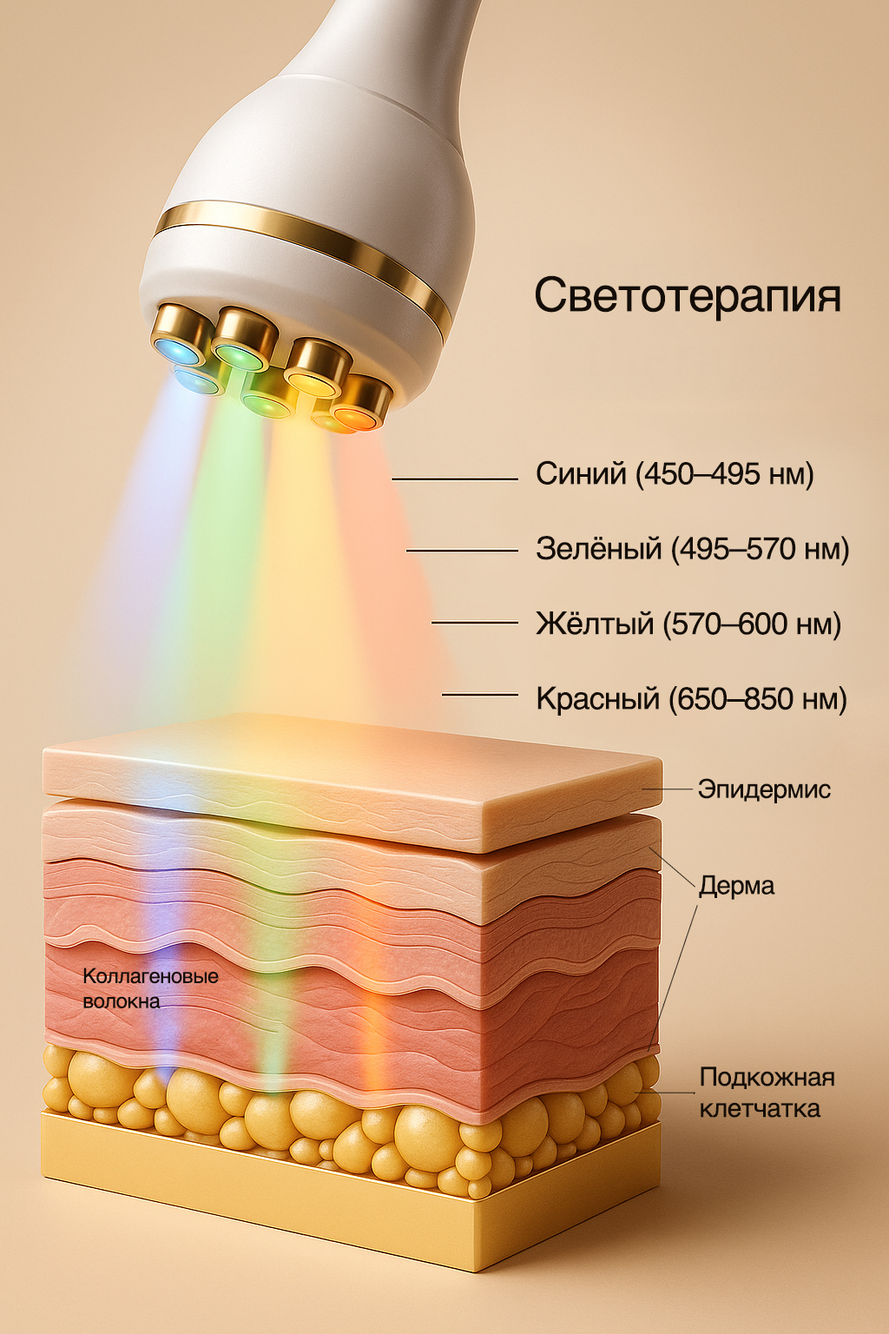
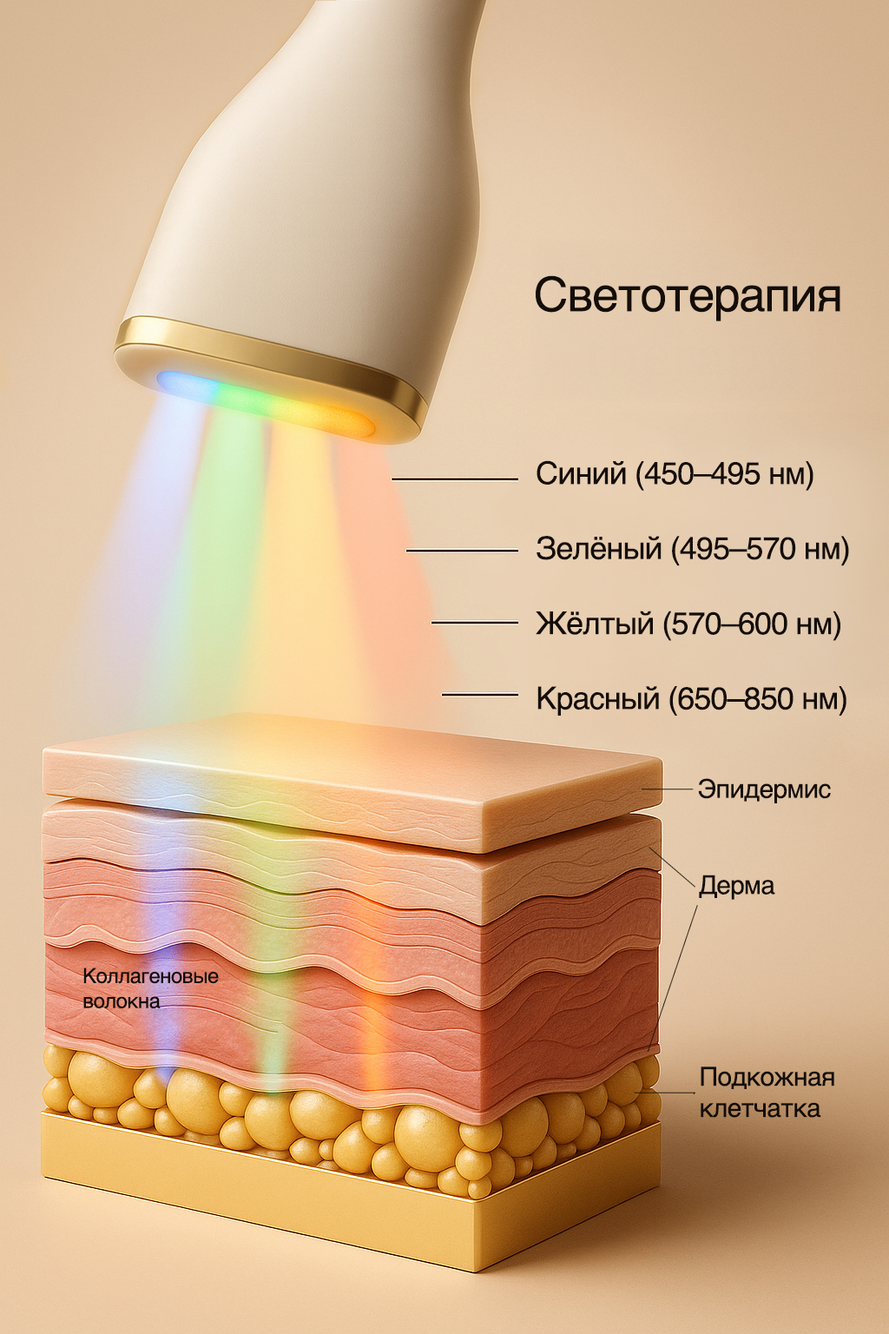
Add Ukrainian translations and update booking links
- Complete Ukrainian language support for /laser page
- Update all 'Termin buchen' buttons to use dikidi.ru booking system
- Add interactive procedure schemas to /laser page (193.png, 193 1.png)
- Update Microneedling schemas (194.jpg, 194 1.png)
- Translate Instagram section to Ukrainian
- Update procedure images (182.jpg, 187.jpg, 187 1.jpg)

🤖 Generated with [Claude Code](https://claude.com/claude-code)

Changed region(s): [[0.125, 0.0, 0.5625, 0.3438]]

diff --git a/src/page-components/Laser.tsx b/src/page-components/Laser.tsx
@@ -7,6 +7,7 @@ import { motion } from 'framer-motion';
 import { Button } from '@/components/ui/button';
 import Image from 'next/image';
 import { useState } from 'react';
+import { ProcedureSchema } from '@/components/ProcedureSchema';
 
 const Laser = () => {
   const { t, language } = useLanguage();
@@ -118,7 +119,7 @@ const Laser = () => {
       title: 'Alle Körperzonen',
       description: 'Von Oberlippe bis kompletter Körper – für Damen und Herren'
     }
-  ] : [
+  ] : language === 'ru' ? [
     {
       icon: Zap,
       title: '3 длины волны в одном аппарате',
@@ -139,6 +140,27 @@ const Laser = () => {
       title: 'Все зоны тела',
       description: 'От верхней губы до всего тела — для женщин и мужчин'
     }
+  ] : [
+    {
+      icon: Zap,
+      title: '3 довжини хвилі в одному апараті',
+      description: 'Оптимальна процедура для будь-якого типу шкіри та волосся без зміни обладнання'
+    },
+    {
+      icon: Shield,
+      title: 'Вбудована система охолодження',
+      description: 'Безболісна процедура завдяки контактному охолодженню до -4°C'
+    },
+    {
+      icon: Clock,
+      title: 'Швидкі результати',
+      description: '80-90% стійке видалення волосся після 6-8 сеансів'
+    },
+    {
+      icon: Sparkles,
+      title: 'Всі зони тіла',
+      description: 'Від верхньої губи до всього тіла — для жінок і чоловіків'
+    }
   ];
 
   const treatmentAreas = language === 'de' ? [
@@ -148,13 +170,20 @@ const Laser = () => {
     { zone: 'Intimbereich', areas: 'Bikini klassisch, Bikini tief, Bikini komplett' },
     { zone: 'Beine', areas: 'Komplett, Oberschenkel, Unterschenkel, Knie' },
     { zone: 'Sonstiges', areas: 'Nacken, Gesäß, Pofalte' },
-  ] : [
+  ] : language === 'ru' ? [
     { zone: 'Лицо', areas: 'Верхняя губа, подбородок, щёки, бакенбарды' },
     { zone: 'Верхняя часть тела', areas: 'Подмышки, грудь, живот, спина, плечи' },
     { zone: 'Руки', areas: 'Полностью, плечи, предплечья, пальцы' },
     { zone: 'Интимная зона', areas: 'Бикини классическое, глубокое, тотальное' },
     { zone: 'Ноги', areas: 'Полностью, бёдра, голени, колени' },
     { zone: 'Другое', areas: 'Шея, ягодицы, межъягодичная зона' },
+  ] : [
+    { zone: 'Обличчя', areas: 'Верхня губа, підборіддя, щоки, бакенбарди' },
+    { zone: 'Верхня частина тіла', areas: 'Пахви, груди, живіт, спина, плечі' },
+    { zone: 'Руки', areas: 'Повністю, плечі, передпліччя, пальці' },
+    { zone: 'Інтимна зона', areas: 'Бікіні класичне, глибоке, тотальне' },
+    { zone: 'Ноги', areas: 'Повністю, стегна, гомілки, коліна' },
+    { zone: 'Інше', areas: 'Шия, сідниці, міжсідничя' },
   ];
 
   const processSteps = language === 'de' ? [
@@ -178,7 +207,7 @@ const Laser = () => {
       title: 'Nachsorge',
       description: 'Beruhigende Pflege, Sonnenschutz, nächster Termin in 4-6 Wochen'
     }
-  ] : [
+  ] : language === 'ru' ? [
     {
       step: 1,
       title: 'Бесплатная консультация',
@@ -198,6 +227,27 @@ const Laser = () => {
       step: 4,
       title: 'Уход после',
       description: 'Успокаивающий уход, защита от солнца, следующий визит через 4-6 недель'
+    }
+  ] : [
+    {
+      step: 1,
+      title: 'Безкоштовна консультація',
+      description: 'Аналіз фототипу, перевірка протипоказань, індивідуальний план'
+    },
+    {
+      step: 2,
+      title: 'Підготовка',
+      description: 'Гоління зони за 24год, без засмаги 2 тижні до процедури'
+    },
+    {
+      step: 3,
+      title: 'Процедура',
+      description: 'Підбір оптимальної довжини хвилі, охолодження, точні імпульси лазера'
+    },
+    {
+      step: 4,
+      title: 'Догляд після',
+      description: 'Заспокійливий догляд, захист від сонця, наступний візит через 4-6 тижнів'
     }
   ];
 
@@ -222,7 +272,7 @@ const Laser = () => {
       q: 'Für wen ist Laser-Haarentfernung nicht geeignet?',
       a: 'Kontraindikationen sind: Schwangerschaft, aktive Hautinfektionen, Einnahme photosensibilisierender Medikamente, frische Bräune (2 Wochen), Epilepsie, Herzschrittmacher, Krebs. Bei chronischen Erkrankungen beraten wir Sie individuell.'
     }
-  ] : [
+  ] : language === 'ru' ? [
     {
       q: 'Почему трёхволновой лазер лучше обычного?',
       a: 'Трёхволновой лазер объединяет преимущества всех технологий: Александрит для светлой кожи и тонких волос, Диод для универсального применения, Nd:YAG для тёмной кожи. Мастер подбирает оптимальную длину волны для вашего фототипа или комбинирует их — для максимальной эффективности и безопасности.'
@@ -242,6 +292,27 @@ const Laser = () => {
     {
       q: 'Кому не подходит лазерная эпиляция?',
       a: 'Противопоказания: беременность, активные инфекции кожи, приём фотосенсибилизирующих препаратов, свежий загар (2 недели), эпилепсия, кардиостимулятор, онкология. При хронических заболеваниях проконсультируем индивидуально.'
+    }
+  ] : [
+    {
+      q: 'Чому трихвильовий лазер кращий за звичайний?',
+      a: 'Трихвильовий лазер об\'єднує переваги всіх технологій: Олександрит для світлої шкіри та тонкого волосся, Діод для універсального застосування, Nd:YAG для темної шкіри. Майстер підбирає оптимальну довжину хвилі для вашого фототипу або комбінує їх — для максимальної ефективності та безпеки.'
+    },
+    {
+      q: 'Це боляче?',
+      a: 'Завдяки вбудованій системі охолодження (до -4°C) процедура практично безболісна. Більшість клієнтів описують легке поколювання або відчуття тепла. Чутливі зони на кшталт бікіні можуть відчуватися інтенсивніше, але цілком терпимо.'
+    },
+    {
+      q: 'Скільки сеансів потрібно?',
+      a: 'Для 80-90% стійкого видалення волосся потрібно 6-8 сеансів з інтервалом 4-6 тижнів. Точна кількість залежить від типу волосся, зони та гормонального фону. При гормональних порушеннях може знадобитися більше сеансів.'
+    },
+    {
+      q: 'Чи можна робити влітку?',
+      a: 'Так! Nd:YAG лазер безпечний навіть при легкій засмазі. Однак слід уникати прямих сонячних променів 2 тижні до та після процедури. Ми індивідуально підберемо оптимальну довжину хвилі для вашого поточного відтінку шкіри.'
+    },
+    {
+      q: 'Кому не підходить лазерна епіляція?',
+      a: 'Протипоказання: вагітність, активні інфекції шкіри, прийом фотосенсибілізуючих препаратів, свіжа засмага (2 тижні), епілепсія, кардіостимулятор, онкологія. При хронічних захворюваннях проконсультуємо індивідуально.'
     }
   ];
 
@@ -306,7 +377,7 @@ const Laser = () => {
                   size="lg"
                   className="bg-brand-gold hover:bg-brand-gold/90 text-white font-medium rounded-2xl px-10 py-7 text-lg"
                 >
-                  {language === 'de' ? 'Preise ansehen' : language === 'ru' ? 'Смотреть цены' : 'Смотреть цены'}
+                  {language === 'de' ? 'Preise ansehen' : language === 'ru' ? 'Смотреть цены' : 'Дивитись ціни'}
                 </Button>
               </Link>
               <Button
@@ -316,7 +387,7 @@ const Laser = () => {
                 asChild
               >
                 <a href="https://wa.me/4917677267269" target="_blank" rel="noopener noreferrer">
-                  {language === 'de' ? 'Beratung buchen' : language === 'ru' ? 'Записаться на консультацию' : 'Записаться на консультацию'}
+                  {language === 'de' ? 'Beratung buchen' : language === 'ru' ? 'Записаться на консультацию' : 'Записатися на консультацію'}
                 </a>
               </Button>
             </div>
@@ -335,12 +406,14 @@ const Laser = () => {
             className="text-center mb-12 md:mb-16"
           >
             <h2 className="text-lg sm:text-xl md:text-2xl lg:text-3xl font-heading font-bold text-brand-espresso mb-4 max-w-full px-2 break-words" style={{ hyphens: 'none', wordBreak: 'break-word', overflowWrap: 'anywhere', whiteSpace: 'normal', letterSpacing: '-0.01em', wordWrap: 'break-word' }}>
-              {language === 'de' ? 'Warum Dreiwellenlaser?' : language === 'ru' ? 'Почему трёхволновой лазер?' : 'Почему трёхволновой лазер?'}
+              {language === 'de' ? 'Warum Dreiwellenlaser?' : language === 'ru' ? 'Почему трёхволновой лазер?' : 'Чому трихвильовий лазер?'}
             </h2>
             <p className="text-brand-coffee/70 max-w-3xl mx-auto text-lg">
-              {isGerman
+              {language === 'de'
                 ? 'Ein Gerät – drei Wellenlängen – optimale Ergebnisse für jeden Hauttyp'
-                : 'Один аппарат — три длины волны — оптимальные результаты для любого типа кожи'}
+                : language === 'ru'
+                ? 'Один аппарат — три длины волны — оптимальные результаты для любого типа кожи'
+                : 'Один апарат — три довжини хвилі — оптимальні результати для будь-якого типу шкіри'}
             </p>
           </motion.div>
 
@@ -383,12 +456,14 @@ const Laser = () => {
             className="text-center mb-12 md:mb-16"
           >
             <h2 className="text-lg sm:text-xl md:text-2xl lg:text-3xl font-heading font-bold text-brand-espresso mb-4 max-w-full px-2 break-words" style={{ hyphens: 'none', wordBreak: 'break-word', overflowWrap: 'anywhere', whiteSpace: 'normal', letterSpacing: '-0.01em', wordWrap: 'break-word' }}>
-              {language === 'de' ? 'Drei Wellenlängen – Drei Stärken' : language === 'ru' ? 'Три длины волны — три преимущества' : 'Три длины волны — три преимущества'}
+              {language === 'de' ? 'Drei Wellenlängen – Drei Stärken' : language === 'ru' ? 'Три длины волны — три преимущества' : 'Три довжини хвилі — три переваги'}
             </h2>
             <p className="text-brand-coffee/70 max-w-3xl mx-auto text-lg">
-              {isGerman
+              {language === 'de'
                 ? 'Jede Wellenlänge hat ihre Stärke. Wir wählen die optimale für Ihren Hauttyp.'
-                : 'Каждая длина волны имеет своё преимущество. Мы подберём оптимальную для вашего фототипа.'}
+                : language === 'ru'
+                ? 'Каждая длина волны имеет своё преимущество. Мы подберём оптимальную для вашего фототипа.'
+                : 'Кожна довжина хвилі має свою перевагу. Ми підберемо оптимальну для вашого фототипу.'}
             </p>
           </motion.div>
 
@@ -450,7 +525,7 @@ const Laser = () => {
             className="text-center mb-12 md:mb-16"
           >
             <h2 className="text-lg sm:text-xl md:text-2xl lg:text-3xl font-heading font-bold text-brand-espresso mb-4 max-w-full px-2 break-words" style={{ hyphens: 'none', wordBreak: 'break-word', overflowWrap: 'anywhere', whiteSpace: 'normal', letterSpacing: '-0.01em', wordWrap: 'break-word' }}>
-              {language === 'de' ? 'Wie läuft die Behandlung ab?' : language === 'ru' ? 'Как проходит процедура?' : 'Как проходит процедура?'}
+              {language === 'de' ? 'Wie läuft die Behandlung ab?' : language === 'ru' ? 'Как проходит процедура?' : 'Як проходить процедура?'}
             </h2>
           </motion.div>
 
@@ -479,6 +554,31 @@ const Laser = () => {
         </div>
       </section>
 
+      {/* Procedure Schema */}
+      <section className="py-16 md:py-20 lg:py-24">
+        <div className="container mx-auto px-4 max-w-5xl">
+          <motion.div
+            initial={{ opacity: 0, y: 20 }}
+            whileInView={{ opacity: 1, y: 0 }}
+            viewport={{ once: true }}
+            transition={{ duration: 0.6 }}
+            className="text-center mb-8"
+          >
+            <h2 className="text-lg sm:text-xl md:text-2xl lg:text-3xl font-heading font-bold text-brand-espresso mb-4 max-w-full px-2 break-words" style={{ hyphens: 'none', wordBreak: 'break-word', overflowWrap: 'anywhere', whiteSpace: 'normal', letterSpacing: '-0.01em', wordWrap: 'break-word' }}>
+              {language === 'de' ? 'Behandlungsablauf' : language === 'ru' ? 'Схема процедуры' : 'Схема процедури'}
+            </h2>
+          </motion.div>
+          <ProcedureSchema
+            germanImages={['/193 1.png']}
+            russianImages={['/193.png']}
+            ukrainianImages={['/193.png']}
+            altTextGerman="Laser-Haarentfernung Behandlungsablauf"
+            altTextRussian="Схема лазерной эпиляции"
+            altTextUkrainian="Схема лазерної епіляції"
+          />
+        </div>
+      </section>
+
       {/* Treatment Areas */}
       <section className="py-16 md:py-20 lg:py-24 bg-white/50">
         <div className="container mx-auto px-4 max-w-5xl">
@@ -490,12 +590,14 @@ const Laser = () => {
             className="text-center mb-12"
           >
             <h2 className="text-lg sm:text-xl md:text-2xl lg:text-3xl font-heading font-bold text-brand-espresso mb-4 max-w-full px-2 break-words" style={{ hyphens: 'none', wordBreak: 'break-word', overflowWrap: 'anywhere', whiteSpace: 'normal', letterSpacing: '-0.01em', wordWrap: 'break-word' }}>
-              {language === 'de' ? 'Behandlungszonen' : language === 'ru' ? 'Зоны обработки' : 'Зоны обработки'}
+              {language === 'de' ? 'Behandlungszonen' : language === 'ru' ? 'Зоны обработки' : 'Зони обробки'}
             </h2>
             <p className="text-brand-coffee/70 max-w-2xl mx-auto">
-              {isGerman
+              {language === 'de'
                 ? 'Laser-Haarentfernung für Damen und Herren – alle Körperzonen'
-                : 'Лазерная эпиляция для женщин и мужчин — все зоны тела'}
+                : language === 'ru'
+                ? 'Лазерная эпиляция для женщин и мужчин — все зоны тела'
+                : 'Лазерна епіляція для жінок і чоловіків — всі зони тіла'}
             </p>
           </motion.div>
 
@@ -522,7 +624,7 @@ const Laser = () => {
                 <Button
                   className="bg-brand-gold hover:bg-brand-gold/90 text-white font-medium rounded-xl"
                 >
-                  {language === 'de' ? 'Alle Preise ansehen' : language === 'ru' ? 'Смотреть все цены' : 'Смотреть все цены'}
+                  {language === 'de' ? 'Alle Preise ansehen' : language === 'ru' ? 'Смотреть все цены' : 'Дивитись всі ціни'}
                 </Button>
               </Link>
             </div>
@@ -541,7 +643,7 @@ const Laser = () => {
             className="text-center mb-12"
           >
             <h2 className="text-lg sm:text-xl md:text-2xl lg:text-3xl font-heading font-bold text-brand-espresso mb-4 max-w-full px-2 break-words" style={{ hyphens: 'none', wordBreak: 'break-word', overflowWrap: 'anywhere', whiteSpace: 'normal', letterSpacing: '-0.01em', wordWrap: 'break-word' }}>
-              {language === 'de' ? 'Häufige Fragen' : language === 'ru' ? 'Частые вопросы' : 'Частые вопросы'}
+              {language === 'de' ? 'Häufige Fragen' : language === 'ru' ? 'Частые вопросы' : 'Часті питання'}
             </h2>
           </motion.div>
 
@@ -585,7 +687,7 @@ const Laser = () => {
               className="h-[2px] bg-gradient-to-r from-transparent via-brand-gold to-transparent mx-auto mb-6"
             />
             <h2 className="text-sm sm:text-base md:text-xl lg:text-2xl font-heading font-bold text-brand-espresso mb-2 max-w-full" style={{ hyphens: 'none', wordBreak: 'normal', overflowWrap: 'normal' }}>
-              {language === 'de' ? 'Unsere Arbeiten' : language === 'ru' ? 'Наши работы' : 'Наши работы'}
+              {language === 'de' ? 'Unsere Arbeiten' : language === 'ru' ? 'Наши работы' : 'Наші роботи'}
             </h2>
             <p className="text-brand-coffee/60 text-sm tracking-widest uppercase">
               {language === 'de' ? 'Galerie' : language === 'ru' ? 'Галерея' : 'Галерея'}
@@ -615,7 +717,7 @@ const Laser = () => {
                 <div className="absolute inset-0 rounded-2xl border-2 border-brand-gold/0 group-hover:border-brand-gold/40 transition-all duration-500" />
                 <div className="absolute bottom-3 left-3 right-3 flex items-center justify-center opacity-0 group-hover:opacity-100 transition-all duration-500 transform translate-y-2 group-hover:translate-y-0">
                   <span className="text-white text-xs font-medium tracking-wider uppercase bg-black/30 backdrop-blur-sm px-3 py-1.5 rounded-full">
-                    {language === 'de' ? 'Ansehen' : language === 'ru' ? 'Смотреть' : 'Смотреть'}
+                    {language === 'de' ? 'Ansehen' : language === 'ru' ? 'Смотреть' : 'Дивитись'}
                   </span>
                 </div>
               </motion.div>
@@ -665,12 +767,14 @@ const Laser = () => {
             transition={{ duration: 0.8 }}
           >
             <h2 className="text-sm sm:text-base md:text-xl lg:text-2xl font-heading font-bold text-white mb-6 max-w-full" style={{ hyphens: 'none', wordBreak: 'normal', overflowWrap: 'normal' }}>
-              {language === 'de' ? 'Glatte Haut – dauerhaft' : language === 'ru' ? 'Гладкая кожа — надолго' : 'Гладкая кожа — надолго'}
+              {language === 'de' ? 'Glatte Haut – dauerhaft' : language === 'ru' ? 'Гладкая кожа — надолго' : 'Гладенька шкіра — надовго'}
             </h2>
             <p className="text-white/90 text-lg mb-8 max-w-2xl mx-auto">
-              {isGerman
+              {language === 'de'
                 ? 'Kostenlose Beratung mit Hauttyp-Analyse. Wir erstellen Ihren individuellen Behandlungsplan.'
-                : 'Бесплатная консультация с анализом фототипа. Составим индивидуальный план процедур.'}
+                : language === 'ru'
+                ? 'Бесплатная консультация с анализом фототипа. Составим индивидуальный план процедур.'
+                : 'Безкоштовна консультація з аналізом фототипу. Складемо індивідуальний план процедур.'}
             </p>
             <div className="flex flex-wrap gap-4 justify-center">
               <Button
@@ -678,8 +782,8 @@ const Laser = () => {
                 className="bg-white hover:bg-brand-cream text-brand-espresso font-medium rounded-2xl text-lg px-10 py-7"
                 asChild
               >
-                <a href="https://wa.me/4917677267269" target="_blank" rel="noopener noreferrer">
-                  {language === 'de' ? 'Termin buchen' : language === 'ru' ? 'Записаться' : 'Записаться'}
+                <a href="https://dikidi.ru/1904110" target="_blank" rel="noopener noreferrer">
+                  {language === 'de' ? 'Termin buchen' : language === 'ru' ? 'Записаться' : 'Записатися'}
                 </a>
               </Button>
               <Button
@@ -689,7 +793,7 @@ const Laser = () => {
                 asChild
               >
                 <a href="https://wa.me/4917677267269" target="_blank" rel="noopener noreferrer">
-                  {language === 'de' ? 'Beratung anfragen' : language === 'ru' ? 'Запросить консультацию' : 'Запросить консультацию'}
+                  {language === 'de' ? 'Beratung anfragen' : language === 'ru' ? 'Запросить консультацию' : 'Запросити консультацію'}
                 </a>
               </Button>
               <Link to="/contact">
@@ -698,7 +802,7 @@ const Laser = () => {
                   variant="outline"
                   className="border-2 border-white text-white hover:bg-white/10 font-medium rounded-2xl text-lg px-10 py-7"
                 >
-                  {language === 'de' ? 'Kontakt' : language === 'ru' ? 'Контакты' : 'Контакты'}
+                  {language === 'de' ? 'Kontakt' : language === 'ru' ? 'Контакты' : 'Контакти'}
                 </Button>
               </Link>
             </div>

diff --git a/src/components/InstagramSection.tsx b/src/components/InstagramSection.tsx
@@ -47,7 +47,9 @@ export const InstagramSection = () => {
           <p className="text-lg md:text-xl text-brand-coffee/80 mb-8 leading-relaxed">
             {language === 'de'
               ? 'Erleben Sie NataLux Beauty hautnah auf Instagram! Entdecken Sie unsere neuesten Arbeiten, Vorher-Nachher-Verwandlungen und exklusive Beauty-Tipps.'
-              : 'Следите за нашими работами в Instagram! Смотрите наши последние работы, преображения до и после, а также эксклюзивные советы по красоте.'}
+              : language === 'ru'
+              ? 'Следите за нашими работами в Instagram! Смотрите наши последние работы, преображения до и после, а также эксклюзивные советы по красоте.'
+              : 'Слідкуйте за нашими роботами в Instagram! Дивіться наші останні роботи, перетворення до і після, а також ексклюзивні поради з краси.'}
           </p>
 
           <motion.button

diff --git a/src/components/ServicePageLayout.tsx b/src/components/ServicePageLayout.tsx
@@ -381,8 +381,8 @@ export const ServicePageLayout = ({
                 className="bg-white hover:bg-brand-cream text-brand-espresso font-semibold rounded-2xl px-6 py-4 md:px-8 md:py-6 text-base md:text-lg min-h-11 shadow-lg hover:shadow-xl transition-all duration-300 hover:-translate-y-0.5"
                 asChild
               >
-                <a href="https://wa.me/4917677267269" target="_blank" rel="noopener noreferrer">
-                  {language === 'de' ? 'Termin buchen' : language === 'ru' ? 'Записаться' : 'Записаться'}
+                <a href="https://dikidi.ru/1904110" target="_blank" rel="noopener noreferrer">
+                  {language === 'de' ? 'Termin buchen' : language === 'ru' ? 'Записаться' : 'Записатися'}
                 </a>
               </Button>
               <Link to="/contact">

diff --git a/src/page-components/services/Microneedling.tsx b/src/page-components/services/Microneedling.tsx
@@ -15,10 +15,12 @@ const Microneedling = () => {
   // Schema section
   const schemaSection = (
     <ProcedureSchema
-      germanImages={['/176.jpg']}
-      russianImages={['/176 1.jpg']}
+      germanImages={['/194 1.png']}
+      russianImages={['/194.jpg']}
+      ukrainianImages={['/194.jpg']}
       altTextGerman="Microneedling Schema"
       altTextRussian="Схема микронидлинга"
+      altTextUkrainian="Схема мікронідлінгу"
       scale={0.67}
     />
   );

diff --git a/src/components/HeroSection.tsx b/src/components/HeroSection.tsx
@@ -138,7 +138,9 @@ export const HeroSection = () => {
           >
             {/* Primary Button - Termin buchen */}
             <motion.a
-              href="tel:+4917677267269"
+              href="https://dikidi.ru/1904110"
+              target="_blank"
+              rel="noopener noreferrer"
               whileHover={{ scale: 1.02 }}
               whileTap={{ scale: 0.98 }}
               className="inline-block w-full sm:w-auto"

diff --git a/src/components/FloatingButtons.tsx b/src/components/FloatingButtons.tsx
@@ -17,7 +17,7 @@ export const FloatingButtons = () => {
   };
 
   const handleTermin = () => {
-    window.location.href = `tel:${phoneNumber}`;
+    window.open('https://dikidi.ru/1904110', '_blank');
   };
 
   return (
